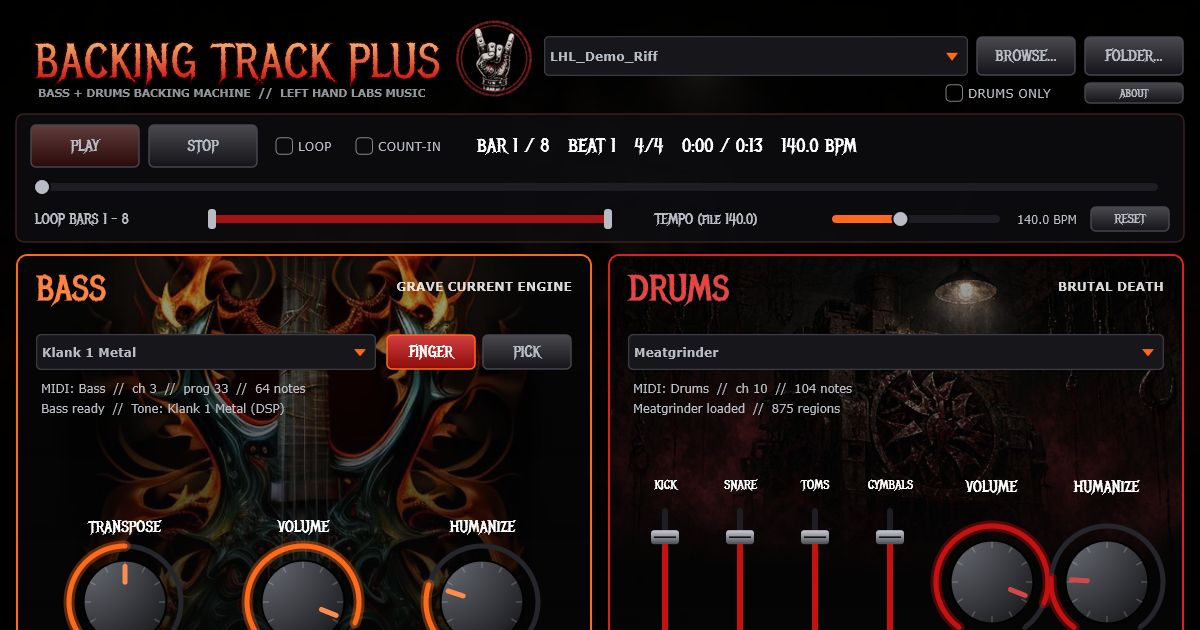
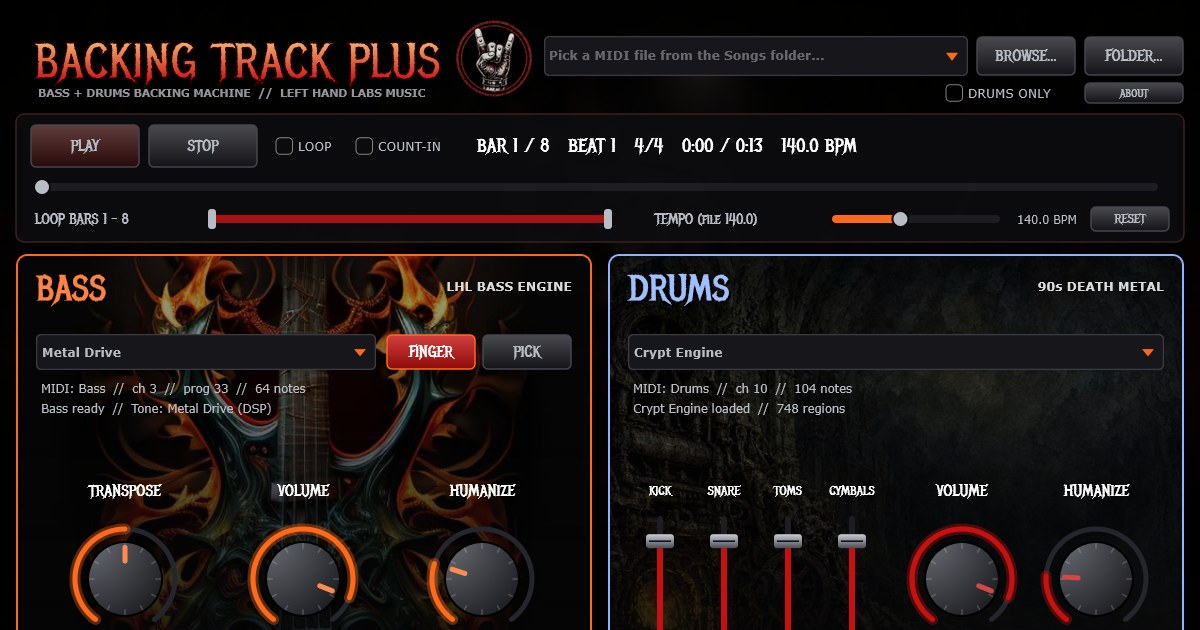
Backing Track Plus now bundles 2 kits (Sunset Riot, Crypt Engine): copy, credits, screenshots

diff --git a/free/index.html b/free/index.html
@@ -64,7 +64,7 @@
     <div class="kicker">What's inside</div>
     <h2 class="metal">A rhythm section that shows up</h2>
     <div class="grid3">
-      <div class="card"><h3>4 drum kits</h3><p><a href="../kits/leviathan-drag.html">Leviathan Drag</a>, <a href="../kits/sunset-riot.html">Sunset Riot</a>, <a href="../kits/razorback.html">Razorback</a>, <a href="../kits/meatgrinder.html">Meatgrinder</a>. Thrash to doom to hair rock to brutal death. Pick one from the drop-down and it loads.</p></div>
+      <div class="card"><h3>2 drum kits</h3><p><a href="../kits/sunset-riot.html">Sunset Riot</a> and <a href="../kits/crypt-engine.html">Crypt Engine</a>. 80s hair rock and 90s death metal. Pick one from the drop-down and it loads.</p></div>
       <div class="card"><h3>7 bass tones</h3><p>Built from our own bass recordings, with more coming in free updates. Switch between pick and finger playing with one button.</p></div>
       <div class="card"><h3>Humanize dials</h3><p>One for bass, one for drums. Leave it tight like a machine, or loosen it up until it sounds like people.</p></div>
       <div class="card"><h3>Practice controls</h3><ul><li>Bar-range looper</li><li>Tempo slider</li><li>Count-in</li><li>Bass transpose</li></ul></div>
@@ -118,7 +118,7 @@
   <div class="wrap">
     <div class="kicker">When you want more</div>
     <h2 class="metal">The full kits</h2>
-    <p class="lead">The 4 kits inside <span class="pn">Backing Track Plus</span> are also sold as full drum kit plugins for your DAW, alongside five more genres. One big knob each, plus an optional mixer.</p>
+    <p class="lead">The 2 kits inside <span class="pn">Backing Track Plus</span> are also sold as full drum kit plugins for your DAW, alongside seven more genres. One big knob each, plus an optional mixer.</p>
     <ul class="menu"><li><a class="kit" href="../kits/smokestack.html"><img src="../assets/img/kits/smokestack-640.jpg" alt="" width="640" height="360" loading="lazy"><span class="cap"><em>70s Rock</em>Smokestack</span></a></li><li><a class="kit" href="../kits/leviathan-drag.html"><img src="../assets/img/kits/leviathan-drag-640.jpg" alt="" width="640" height="360" loading="lazy"><b class="free">In the free plugin</b><span class="cap"><em>Doom / Sludge</em>Leviathan Drag</span></a></li><li><a class="kit" href="../kits/sunset-riot.html"><img src="../assets/img/kits/sunset-riot-640.jpg" alt="" width="640" height="360" loading="lazy"><b class="free">In the free plugin</b><span class="cap"><em>Hair Rock</em>Sunset Riot</span></a></li><li><a class="kit" href="../kits/neon-gate.html"><img src="../assets/img/kits/neon-gate-640.jpg" alt="" width="640" height="360" loading="lazy"><span class="cap"><em>80s</em>Neon Gate</span></a></li><li><a class="kit" href="../kits/razorback.html"><img src="../assets/img/kits/razorback-640.jpg" alt="" width="640" height="360" loading="lazy"><b class="free">In the free plugin</b><span class="cap"><em>80s Thrash</em>Razorback</span></a></li><li><a class="kit" href="../kits/crypt-engine.html"><img src="../assets/img/kits/crypt-engine-640.jpg" alt="" width="640" height="360" loading="lazy"><span class="cap"><em>90s Death Metal</em>Crypt Engine</span></a></li><li><a class="kit" href="../kits/ground-zero.html"><img src="../assets/img/kits/ground-zero-640.jpg" alt="" width="640" height="360" loading="lazy"><span class="cap"><em>Slam</em>Ground Zero</span></a></li><li><a class="kit" href="../kits/meatgrinder.html"><img src="../assets/img/kits/meatgrinder-640.jpg" alt="" width="640" height="360" loading="lazy"><b class="free">In the free plugin</b><span class="cap"><em>Brutal Death</em>Meatgrinder</span></a></li><li><a class="kit" href="../kits/fractal-cathedral.html"><img src="../assets/img/kits/fractal-cathedral-640.jpg" alt="" width="640" height="360" loading="lazy"><span class="cap"><em>Prog Death</em>Fractal Cathedral</span></a></li><li class="kit-bundle-li" style="grid-column:1/-1"><a class="kit bundle" href="../kits/the-whole-menu.html"><img src="../assets/img/kits/the-whole-menu.jpg" alt="" width="1280" height="720" loading="lazy"><span class="cap"><em>Bundle // all 9 kits</em>The Whole Menu</span></a></li></ul>
   </div>
 </section>

diff --git a/kits/sunset-riot.html b/kits/sunset-riot.html
@@ -45,7 +45,7 @@
       <span class="price" aria-label="Availability">Coming soon</span>
       <span class="btn block ghost" aria-disabled="true">Not for sale yet</span>
     </div>
-    <p class="fine">Paid kits open Tue Dec 1. Until then, play four of them inside free <a href="../free/"><span class="pn">Backing Track Plus</span></a>.</p>
+    <p class="fine">Paid kits open Tue Dec 1. Until then, play two of them (Sunset Riot and Crypt Engine) inside free <a href="../free/"><span class="pn">Backing Track Plus</span></a>.</p>
   </div>
 </section>
 <section class="ui-preview">
@@ -61,7 +61,7 @@
       <p class="lead">Hair rock drums for big choruses. A punchy kick, a bright, cracking snare and roomy toms, with a separate real room-mic layer underneath. Pick the snare you want from the variant menu: Classic Room, Crack, Big Gate, Raw, or Room Cymbals for longer crash tails. Then turn HAIRSPRAY. It adds a gated room blast, sparkle on top and more snare crack. The gate comes from the real room mics plus an envelope, not a canned reverb. Load it, pick a snare, play. Glam, arena rock, sleaze. Spandex optional.</p>
       <h3 style="margin-top:1.4em">Features</h3>
       <ul class="feat"><li><strong>HAIRSPRAY knob:</strong> gated room blast, sparkle and snare crack.</li><li>5 kit variants: <strong>Classic Room</strong> (default), <strong>Crack</strong>, <strong>Big Gate</strong>, <strong>Raw</strong>, <strong>Room Cymbals</strong>.</li><li>5 presets (Default, Raw / dry, Tight, Roomy, Big and loud) and a Tune knob (±3 semitones on kick/snare/toms).</li><li>Optional mixer: Kick, Snare, Toms, Cymbals, Room, Master. MIDI map menu for common drum-map quirks.</li><li>VST3 + standalone for Windows. Groove player for your own MIDI files. Credits inside the plugin.</li></ul>
-      <p class="fine">A version of Sunset Riot is one of the 4 kits inside the free practice plugin, <a href="../free/"><span class="pn">Backing Track Plus</span></a>.</p>
+      <p class="fine">A version of Sunset Riot is one of the 2 kits inside the free practice plugin, <a href="../free/"><span class="pn">Backing Track Plus</span></a>.</p>
     </div>
     <div>
       <div class="demo" id="demo">

diff --git a/kits/meatgrinder.html b/kits/meatgrinder.html
@@ -45,7 +45,7 @@
       <span class="price" aria-label="Availability">Coming soon</span>
       <span class="btn block ghost" aria-disabled="true">Not for sale yet</span>
     </div>
-    <p class="fine">Paid kits open Tue Dec 1. Until then, play four of them inside free <a href="../free/"><span class="pn">Backing Track Plus</span></a>.</p>
+    <p class="fine">Paid kits open Tue Dec 1. Until then, play two of them (Sunset Riot and Crypt Engine) inside free <a href="../free/"><span class="pn">Backing Track Plus</span></a>.</p>
   </div>
 </section>
 <section class="ui-preview">
@@ -61,7 +61,6 @@
       <p class="lead">Brutal death metal drums made for blast beats. A dry, clicky, very tight kick and snare with short decay, so 250 BPM stays readable instead of turning into soup <span class="ph">[CHECK BY EAR OR CUT THE 250 BPM LINE]</span>. Turn GRIND for hard saturation and upper-mid presence. That's the grinder. No trigger setup, no transient shaping, no ten-plugin snare chain. Load it, program the blasts, done. Brutal death, grind, slam-adjacent, anything fast and ugly. A mixer and Tune knob are there if you need them.</p>
       <h3 style="margin-top:1.4em">Features</h3>
       <ul class="feat"><li><strong>GRIND knob:</strong> hard saturation and presence.</li><li>Kit variants <strong>Natural</strong> and <strong>Raw</strong> <span class="ph">[CONFIRM VARIANT NAMES]</span>, plus 5 presets (Default, Raw / dry, Tight, Roomy, Big and loud).</li><li>Tune knob (kick/snare/toms ±3 semitones) and six faders: Kick, Snare, Toms, Cymbals, Room, Master.</li><li>MIDI map menu: GM, merge 35>36 and 40>38, pedal hat plays closed, toms flipped for pad layouts.</li><li>VST3 + standalone for Windows. Groove player for your own MIDI files. Credits inside the plugin.</li></ul>
-      <p class="fine">A version of Meatgrinder is one of the 4 kits inside the free practice plugin, <a href="../free/"><span class="pn">Backing Track Plus</span></a>.</p>
     </div>
     <div>
       <div class="demo" id="demo">

diff --git a/kits/leviathan-drag.html b/kits/leviathan-drag.html
@@ -45,7 +45,7 @@
       <span class="price" aria-label="Availability">Coming soon</span>
       <span class="btn block ghost" aria-disabled="true">Not for sale yet</span>
     </div>
-    <p class="fine">Paid kits open Tue Dec 1. Until then, play four of them inside free <a href="../free/"><span class="pn">Backing Track Plus</span></a>.</p>
+    <p class="fine">Paid kits open Tue Dec 1. Until then, play two of them (Sunset Riot and Crypt Engine) inside free <a href="../free/"><span class="pn">Backing Track Plus</span></a>.</p>
   </div>
 </section>
 <section class="ui-preview">
@@ -61,7 +61,6 @@
       <p class="lead">Doom and sludge drums, already tuned down. Huge, loose kick and toms with long decay, and a fat, low early-70s-style doom snare built from real top, bottom, overhead and room mics. The toms go down to a 45 Hz floor tom. Turn WEIGHT and it pulls the kit's pitch further down, piles on low-end mass and opens a long, dark room. No tuning session, no sidechain homework. Load it, set the tempo to slow, and play. The mixer and Tune knob are there if you want them.</p>
       <h3 style="margin-top:1.4em">Features</h3>
       <ul class="feat"><li><strong>WEIGHT knob:</strong> pitch down, low-end mass, long dark room.</li><li>Kit variants <strong>Natural</strong> and <strong>Raw</strong> <span class="ph">[CONFIRM VARIANT NAMES]</span>, plus 5 presets (Default, Raw / dry, Tight, Roomy, Big and loud).</li><li>Kick, snare and toms pre-tuned 2 semitones down. The Tune knob moves them a further ±3 semitones.</li><li>Six faders (Kick, Snare, Toms, Cymbals, Room, Master), a MIDI map menu and a MIDI groove player for your own files.</li><li>VST3 + standalone for Windows. Real open-licence recordings (CC BY 4.0 + CC0), credited inside the plugin.</li></ul>
-      <p class="fine">A version of Leviathan Drag is one of the 4 kits inside the free practice plugin, <a href="../free/"><span class="pn">Backing Track Plus</span></a>.</p>
     </div>
     <div>
       <div class="demo" id="demo">

diff --git a/kits/razorback.html b/kits/razorback.html
@@ -45,7 +45,7 @@
       <span class="price" aria-label="Availability">Coming soon</span>
       <span class="btn block ghost" aria-disabled="true">Not for sale yet</span>
     </div>
-    <p class="fine">Paid kits open Tue Dec 1. Until then, play four of them inside free <a href="../free/"><span class="pn">Backing Track Plus</span></a>.</p>
+    <p class="fine">Paid kits open Tue Dec 1. Until then, play two of them (Sunset Riot and Crypt Engine) inside free <a href="../free/"><span class="pn">Backing Track Plus</span></a>.</p>
   </div>
 </section>
 <section class="ui-preview">
@@ -61,7 +61,6 @@
       <p class="lead">Late-80s thrash drums for fast palm-muted riffs. A tight, clicky kick that cuts through rhythm guitars, a bright snare, short punchy toms and sharp cymbals. Turn BITE and it pushes the upper-mid attack, scoops out the low-mid mud and adds grit. You don't have to touch an EQ. Load it, program the double kick, done. Thrash, speed metal, crossover. If you want to fiddle, there's a mixer and a Tune knob, but nobody's making you.</p>
       <h3 style="margin-top:1.4em">Features</h3>
       <ul class="feat"><li><strong>BITE knob:</strong> upper-mid bite, scooped mud, grit.</li><li>Kit variants <strong>Natural</strong> and <strong>Raw</strong> <span class="ph">[CONFIRM VARIANT NAMES]</span>, plus 5 presets (Default, Raw / dry, Tight, Roomy, Big and loud).</li><li>Tune knob (kick/snare/toms ±3 semitones) and six faders: Kick, Snare, Toms, Cymbals, Room, Master.</li><li>MIDI map menu: GM, merge 35>36 and 40>38, pedal hat plays closed, toms flipped for pad layouts.</li><li>VST3 + standalone for Windows. Groove player for your own MIDI files. Credits inside the plugin.</li></ul>
-      <p class="fine">A version of Razorback is one of the 4 kits inside the free practice plugin, <a href="../free/"><span class="pn">Backing Track Plus</span></a>.</p>
     </div>
     <div>
       <div class="demo" id="demo">

diff --git a/credits.html b/credits.html
@@ -413,7 +413,7 @@
 <p><em>For your releases:</em> the DrumGizmo kit authors ask that releases using their samples include "Drum samples provided by DrumGizmo.org" in the credits or liner notes. It's a nice thing to do.</p>
 <h2 id="free-plugin"><span class="pn">Backing Track Plus</span> (free practice plugin)</h2>
 <ul>
-<li><strong>Drum kits bundled:</strong> Leviathan Drag, Sunset Riot, Razorback, Meatgrinder. Same sources and licences as the kits above. Drum samples provided by DrumGizmo.org (CC BY 4.0) unless noted CC0.</li>
+<li><strong>Drum kits bundled:</strong> Sunset Riot, Crypt Engine. Same sources and licences as the kits above. Drum samples provided by DrumGizmo.org (CC BY 4.0) unless noted CC0.</li>
 <li><strong>Black And Blue Basses</strong> by Karoryfer Samples: CC0 1.0 (courtesy credit). <a rel="noopener" href="https://karoryfer.com/karoryfer-samples/wydawnictwa/black-and-blue-basses">Source</a>.</li>
 <li><strong>Bass amp tones:</strong> 7 built-in Left Hand Labs Music tones, built from our own bass recordings.</li>
 <li><strong>Demo MIDI:</strong> an original short Left Hand Labs Music demo riff. Not a cover.</li>

diff --git a/kits/crypt-engine.html b/kits/crypt-engine.html
@@ -45,7 +45,7 @@
       <span class="price" aria-label="Availability">Coming soon</span>
       <span class="btn block ghost" aria-disabled="true">Not for sale yet</span>
     </div>
-    <p class="fine">Paid kits open Tue Dec 1. Until then, play four of them inside free <a href="../free/"><span class="pn">Backing Track Plus</span></a>.</p>
+    <p class="fine">Paid kits open Tue Dec 1. Until then, play two of them (Sunset Riot and Crypt Engine) inside free <a href="../free/"><span class="pn">Backing Track Plus</span></a>.</p>
   </div>
 </section>
 <section class="ui-preview">

diff --git a/kits/fractal-cathedral.html b/kits/fractal-cathedral.html
@@ -45,7 +45,7 @@
       <span class="price" aria-label="Availability">Coming soon</span>
       <span class="btn block ghost" aria-disabled="true">Not for sale yet</span>
     </div>
-    <p class="fine">Paid kits open Tue Dec 1. Until then, play four of them inside free <a href="../free/"><span class="pn">Backing Track Plus</span></a>.</p>
+    <p class="fine">Paid kits open Tue Dec 1. Until then, play two of them (Sunset Riot and Crypt Engine) inside free <a href="../free/"><span class="pn">Backing Track Plus</span></a>.</p>
   </div>
 </section>
 <section class="ui-preview">

diff --git a/kits/ground-zero.html b/kits/ground-zero.html
@@ -45,7 +45,7 @@
       <span class="price" aria-label="Availability">Coming soon</span>
       <span class="btn block ghost" aria-disabled="true">Not for sale yet</span>
     </div>
-    <p class="fine">Paid kits open Tue Dec 1. Until then, play four of them inside free <a href="../free/"><span class="pn">Backing Track Plus</span></a>.</p>
+    <p class="fine">Paid kits open Tue Dec 1. Until then, play two of them (Sunset Riot and Crypt Engine) inside free <a href="../free/"><span class="pn">Backing Track Plus</span></a>.</p>
   </div>
 </section>
 <section class="ui-preview">

diff --git a/kits/neon-gate.html b/kits/neon-gate.html
@@ -45,7 +45,7 @@
       <span class="price" aria-label="Availability">Coming soon</span>
       <span class="btn block ghost" aria-disabled="true">Not for sale yet</span>
     </div>
-    <p class="fine">Paid kits open Tue Dec 1. Until then, play four of them inside free <a href="../free/"><span class="pn">Backing Track Plus</span></a>.</p>
+    <p class="fine">Paid kits open Tue Dec 1. Until then, play two of them (Sunset Riot and Crypt Engine) inside free <a href="../free/"><span class="pn">Backing Track Plus</span></a>.</p>
   </div>
 </section>
 <section class="ui-preview">

diff --git a/kits/smokestack.html b/kits/smokestack.html
@@ -45,7 +45,7 @@
       <span class="price" aria-label="Availability">Coming soon</span>
       <span class="btn block ghost" aria-disabled="true">Not for sale yet</span>
     </div>
-    <p class="fine">Paid kits open Tue Dec 1. Until then, play four of them inside free <a href="../free/"><span class="pn">Backing Track Plus</span></a>.</p>
+    <p class="fine">Paid kits open Tue Dec 1. Until then, play two of them (Sunset Riot and Crypt Engine) inside free <a href="../free/"><span class="pn">Backing Track Plus</span></a>.</p>
   </div>
 </section>
 <section class="ui-preview">
